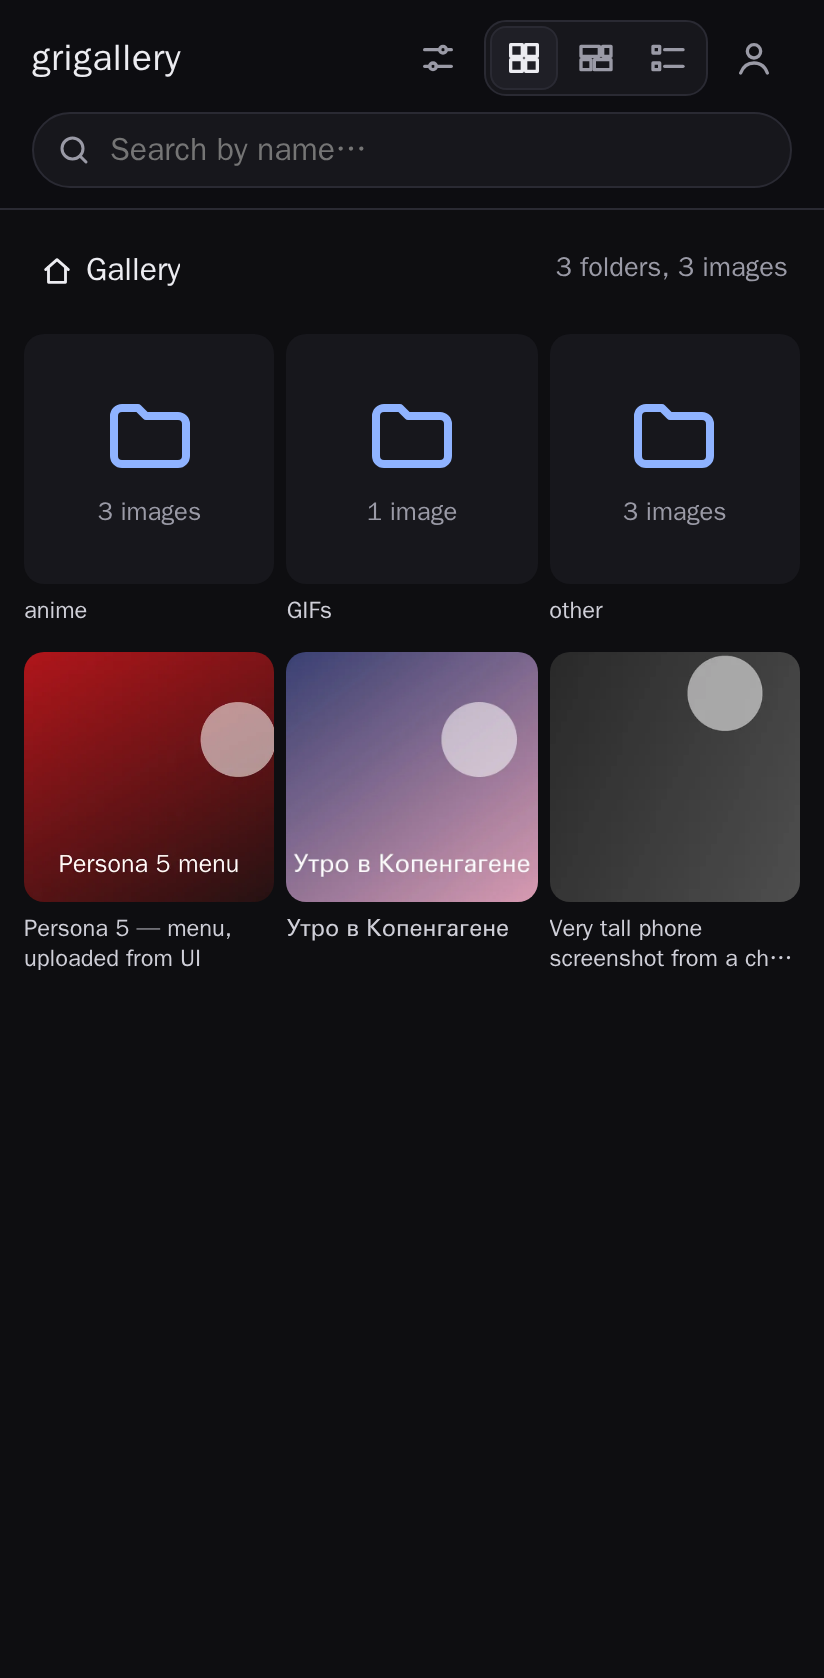
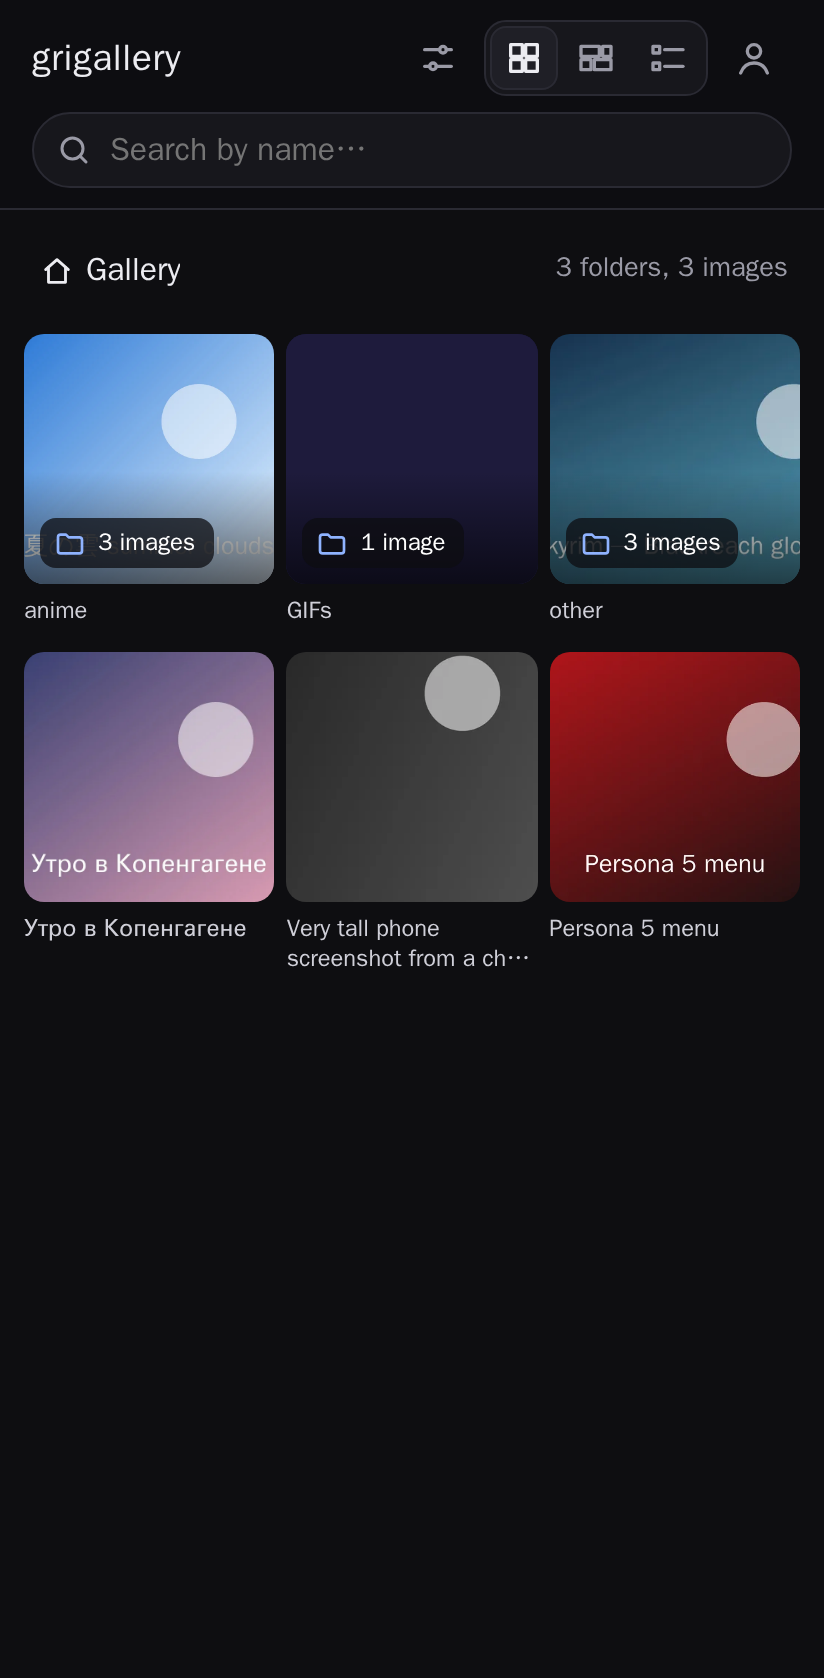
Folder covers; fix drop overlay staying on screen
Covers: a folder shows its newest picture (subfolders included), or a
picture picked in the viewer; if that one is moved out or deleted, the
cover falls back to the newest again. Existing folders get the new
column on start.

Overlay: dropping files onto the upload dialog's drop zone stopped the
event before the page reset its drag counter, so the overlay appeared
once the dialog closed and stayed until reload. The counter now resets
on every drop (capture phase), on dragend and when the dialog opens.

Changed region(s): [[0.0303, 0.1859, 0.9709, 0.5888]]

diff --git a/src/lib/components/GalleryView.svelte b/src/lib/components/GalleryView.svelte
@@ -82,11 +82,19 @@
 {#if g.view === 'grid'}
 	<div class="grid">
 		{#each g.visibleFolders as folder (folder.id)}
+			{@const cover = g.covers.get(folder.id)}
 			<a class="tile" href={g.url(folder.id)}>
-				<div class="frame folder-frame">
-					<Icon name="folder" size={48} />
-					<span class="fcount">{countLabel(folder.id)}</span>
-				</div>
+				{#if cover}
+					<div class="frame folder-cover" style:background-color={cover.color}>
+						<img src={cover.thumb} alt="" loading="lazy" decoding="async" />
+						<span class="fbadge"><Icon name="folder" size={16} />{countLabel(folder.id)}</span>
+					</div>
+				{:else}
+					<div class="frame folder-frame">
+						<Icon name="folder" size={48} />
+						<span class="fcount">{countLabel(folder.id)}</span>
+					</div>
+				{/if}
 				<span class="caption">{folder.name}</span>
 			</a>
 		{/each}
@@ -116,8 +124,15 @@
 	{#if g.visibleFolders.length}
 		<div class="fstrip">
 			{#each g.visibleFolders as folder (folder.id)}
+				{@const cover = g.covers.get(folder.id)}
 				<a class="fcard" href={g.url(folder.id)}>
-					<Icon name="folder" size={22} />
+					{#if cover}
+						<span class="fthumb-sm" style:background-color={cover.color}>
+							<img src={cover.thumb} alt="" loading="lazy" decoding="async" />
+						</span>
+					{:else}
+						<Icon name="folder" size={22} />
+					{/if}
 					<span class="fname">{folder.name}</span>
 					<span class="fmeta">{g.counts.get(folder.id) ?? 0}</span>
 				</a>
@@ -144,8 +159,16 @@
 {:else}
 	<div class="list">
 		{#each g.visibleFolders as folder (folder.id)}
+			{@const cover = g.covers.get(folder.id)}
 			<a class="lrow" href={g.url(folder.id)}>
-				<div class="lthumb fthumb"><Icon name="folder" size={28} /></div>
+				<div class="lthumb fthumb" style:background-color={cover?.color}>
+					{#if cover}
+						<img src={cover.thumb} alt="" loading="lazy" decoding="async" />
+						<span class="fcorner"><Icon name="folder" size={14} /></span>
+					{:else}
+						<Icon name="folder" size={28} />
+					{/if}
+				</div>
 				<div class="lname">{folder.name}</div>
 				<span class="lcell date">{countLabel(folder.id)}</span>
 				<span class="lcell dims"></span>
@@ -205,6 +228,57 @@
 
 	.tile:hover .folder-frame {
 		background: var(--panel-2);
+	}
+
+	/* A folder with a cover: the picture, dimmed at the bottom, with a folder badge. */
+	.folder-cover::after {
+		content: '';
+		position: absolute;
+		inset: 0;
+		background: linear-gradient(transparent 55%, rgba(0, 0, 0, 0.6));
+		pointer-events: none;
+	}
+
+	.fbadge {
+		position: absolute;
+		left: 8px;
+		bottom: 8px;
+		z-index: 1;
+		display: inline-flex;
+		align-items: center;
+		gap: 6px;
+		padding: 4px 9px 4px 7px;
+		border-radius: 8px;
+		background: rgba(14, 14, 17, 0.75);
+		backdrop-filter: blur(6px);
+		-webkit-backdrop-filter: blur(6px);
+		font-size: 0.75rem;
+		color: #fff;
+	}
+
+	.fbadge :global(.icon) {
+		color: var(--accent);
+	}
+
+	.fthumb-sm {
+		width: 30px;
+		height: 30px;
+		overflow: hidden;
+		border-radius: 6px;
+		flex: none;
+	}
+
+	.fcorner {
+		position: absolute;
+		right: 3px;
+		bottom: 3px;
+		display: grid;
+		place-items: center;
+		width: 22px;
+		height: 22px;
+		border-radius: 6px;
+		background: rgba(14, 14, 17, 0.8);
+		color: var(--accent);
 	}
 
 	.fcount {

diff --git a/src/lib/server/db.ts b/src/lib/server/db.ts
@@ -24,6 +24,7 @@ export interface FolderRow {
 	name: string;
 	slug: string;
 	parent_id: string | null;
+	cover_id: string | null;
 	created_at: string;
 }
 
@@ -77,6 +78,10 @@ function migrate(conn: DatabaseSync) {
 	// Folders arrived after the first release: existing pictures stay in the root.
 	if (!columns.includes('folder_id')) conn.exec('ALTER TABLE images ADD COLUMN folder_id TEXT');
 	conn.exec('CREATE INDEX IF NOT EXISTS images_folder ON images (folder_id)');
+	const folderColumns = (conn.prepare('PRAGMA table_info(folders)').all() as { name: string }[]).map(
+		(c) => c.name
+	);
+	if (!folderColumns.includes('cover_id')) conn.exec('ALTER TABLE folders ADD COLUMN cover_id TEXT');
 }
 
 /** Runs fn in a transaction, rolling back if it throws. */
@@ -162,6 +167,7 @@ export function folderToClient(row: FolderRow): GalleryFolder {
 		name: row.name,
 		slug: row.slug,
 		parentId: row.parent_id ?? null,
+		coverId: row.cover_id ?? null,
 		createdAt: row.created_at
 	};
 }
@@ -190,15 +196,20 @@ export function childFolders(parentId: string | null): FolderRow[] {
 export function insertFolder(row: FolderRow) {
 	getDb()
 		.prepare(
-			`INSERT INTO folders (id, name, slug, parent_id, created_at)
-			VALUES (:id, :name, :slug, :parent_id, :created_at)`
+			`INSERT INTO folders (id, name, slug, parent_id, cover_id, created_at)
+			VALUES (:id, :name, :slug, :parent_id, :cover_id, :created_at)`
 		)
 		.run({ ...row });
 }
 
-export function updateFolder(id: string, fields: Pick<FolderRow, 'name' | 'slug' | 'parent_id'>) {
+export function updateFolder(
+	id: string,
+	fields: Pick<FolderRow, 'name' | 'slug' | 'parent_id' | 'cover_id'>
+) {
 	getDb()
-		.prepare('UPDATE folders SET name = :name, slug = :slug, parent_id = :parent_id WHERE id = :id')
+		.prepare(
+			'UPDATE folders SET name = :name, slug = :slug, parent_id = :parent_id, cover_id = :cover_id WHERE id = :id'
+		)
 		.run({ ...fields, id });
 }
 

diff --git a/src/routes/api/folders/[id]/+server.ts b/src/routes/api/folders/[id]/+server.ts
@@ -1,6 +1,6 @@
 import { error } from '@sveltejs/kit';
 import { requireAdmin } from '#lib/server/auth.ts';
-import { deleteFolder, folderToClient, getFolder, updateFolder } from '#lib/server/db.ts';
+import { deleteFolder, folderToClient, getFolder, getImage, updateFolder } from '#lib/server/db.ts';
 import {
 	assertFreeSlug,
 	collisionsOnDelete,
@@ -10,7 +10,10 @@ import {
 } from '#lib/server/folders.ts';
 import type { RequestHandler } from './$types';
 
-/** Rename and/or move: { name?, parentId? } (parentId null = root). */
+/**
+ * Any of: { name, parentId, coverId }. parentId null = root;
+ * coverId null = back to the newest picture inside.
+ */
 export const PATCH: RequestHandler = async ({ params, request, locals }) => {
 	requireAdmin(locals);
 	const folder = getFolder(params.id);
@@ -27,8 +30,23 @@ export const PATCH: RequestHandler = async ({ params, request, locals }) => {
 	}
 	assertFreeSlug(parentId, slug, folder.id);
 
-	updateFolder(folder.id, { name, slug, parent_id: parentId });
-	return Response.json(folderToClient({ ...folder, name, slug, parent_id: parentId }));
+	let coverId = folder.cover_id;
+	if ('coverId' in body) {
+		if (body.coverId === null) {
+			coverId = null;
+		} else {
+			const image = typeof body.coverId === 'string' ? getImage(body.coverId) : undefined;
+			const imageFolder = image?.folder_id ? (getFolder(image.folder_id) ?? null) : null;
+			if (!image || !isInside(imageFolder, folder.id)) {
+				error(400, 'The cover has to be a picture from this folder');
+			}
+			coverId = image.id;
+		}
+	}
+
+	const fields = { name, slug, parent_id: parentId, cover_id: coverId };
+	updateFolder(folder.id, fields);
+	return Response.json(folderToClient({ ...folder, ...fields }));
 };
 
 /** Deletes the folder; what was inside moves up to its parent. */

diff --git a/src/routes/[...path]/+page.svelte b/src/routes/[...path]/+page.svelte
@@ -138,6 +138,20 @@
 
 	// ---------- folders ----------
 
+	/** Makes a picture the open folder's cover, or goes back to automatic if it already is. */
+	async function toggleCover(imageId: string) {
+		const folder = g.current;
+		if (!folder) return;
+		const coverId = folder.coverId === imageId ? null : imageId;
+		try {
+			const updated = await api<GalleryFolder>('PATCH', `/api/folders/${folder.id}`, { coverId });
+			g.upsertFolder(updated);
+			showToast(coverId ? `Cover of “${folder.name}”` : 'Cover is the newest picture again');
+		} catch (err) {
+			showToast((err as Error).message);
+		}
+	}
+
 	function newFolder() {
 		prompt = {
 			title: 'New folder',
@@ -236,6 +250,17 @@
 		if (g.user && hasFiles(e)) e.preventDefault();
 	}
 
+	// Reset on every drop, wherever it lands: the upload dialog's drop zone
+	// stops the event from reaching ondrop below, which used to leave the
+	// overlay stuck after the dialog closed.
+	function endDrag() {
+		dragging = 0;
+	}
+
+	$effect(() => {
+		if (uploader.open) untrack(endDrag);
+	});
+
 	function ondrop(e: DragEvent) {
 		if (!g.user || !hasFiles(e)) return;
 		e.preventDefault();
@@ -262,7 +287,16 @@
 	const allPicked = $derived(g.visible.length > 0 && g.visible.every((it) => g.selected.has(it.id)));
 </script>
 
-<svelte:window {ondragenter} {ondragleave} {ondragover} {ondrop} {onpaste} {onkeydown} />
+<svelte:window
+	{ondragenter}
+	{ondragleave}
+	{ondragover}
+	{ondrop}
+	ondropcapture={endDrag}
+	ondragend={endDrag}
+	{onpaste}
+	{onkeydown}
+/>
 
 <svelte:head>
 	{#if g.current}<title>{g.current.name} · grigallery</title>{/if}
@@ -327,6 +361,7 @@
 		onnavigate={showImage}
 		onmove={(id) => moveImages([id])}
 		ondelete={(id) => deleteImages([id])}
+		oncover={toggleCover}
 	/>
 {/if}
 

diff --git a/src/lib/components/Lightbox.svelte b/src/lib/components/Lightbox.svelte
@@ -13,7 +13,8 @@
 		onclose,
 		onnavigate,
 		onmove,
-		ondelete
+		ondelete,
+		oncover
 	}: {
 		g: Gallery;
 		id: string;
@@ -21,6 +22,7 @@
 		onnavigate: (id: string) => unknown;
 		onmove: (id: string) => unknown;
 		ondelete: (id: string) => unknown;
+		oncover: (id: string) => unknown;
 	} = $props();
 
 	let root = $state<HTMLDivElement>();
@@ -36,6 +38,11 @@
 	const item = $derived<GalleryImage | undefined>(g.visible[index]);
 	const prevItem = $derived(index > 0 ? g.visible[index - 1] : undefined);
 	const nextItem = $derived(index >= 0 ? g.visible[index + 1] : undefined);
+	// Any picture inside the open folder (subfolders too) can become its cover.
+	const canCover = $derived(
+		!!g.user && !!g.current && !!item?.folderId && !!g.subtree?.has(item.folderId)
+	);
+	const isCover = $derived(!!item && g.current?.coverId === item.id);
 
 	// Show the thumbnail at once, swap in the sharp original when it has loaded.
 	$effect(() => {
@@ -199,6 +206,18 @@
 					<button class="icon-btn" title="Move to folder" aria-label="Move to folder" onclick={() => item && onmove(item.id)}>
 						<Icon name="move" />
 					</button>
+					{#if canCover}
+						<button
+							class="icon-btn"
+							class:active={isCover}
+							title={isCover ? 'Cover of this folder (click to use the newest picture)' : 'Make folder cover'}
+							aria-label={isCover ? 'Stop using as folder cover' : 'Make folder cover'}
+							aria-pressed={isCover}
+							onclick={() => item && oncover(item.id)}
+						>
+							<Icon name="cover" />
+						</button>
+					{/if}
 					<button class="icon-btn" title="Delete" aria-label="Delete" onclick={remove}>
 						<Icon name="trash" />
 					</button>

diff --git a/src/lib/gallery.svelte.ts b/src/lib/gallery.svelte.ts
@@ -103,6 +103,28 @@ export class Gallery {
 		return counts;
 	});
 
+	/**
+	 * Cover picture of each folder: the one chosen for it if it is still
+	 * somewhere inside, otherwise the newest picture in it or its subfolders.
+	 */
+	covers = $derived.by(() => {
+		const covers = new Map<string, GalleryImage>();
+		for (const it of this.items) {
+			let id = it.folderId;
+			while (id) {
+				const best = covers.get(id);
+				if (!best || it.uploadedAt > best.uploadedAt) covers.set(id, it);
+				id = this.byId.get(id)?.parentId ?? null;
+			}
+		}
+		const images = new Map(this.items.map((it) => [it.id, it]));
+		for (const f of this.folders) {
+			const chosen = f.coverId ? images.get(f.coverId) : undefined;
+			if (chosen?.folderId && this.descendants(f.id).has(chosen.folderId)) covers.set(f.id, chosen);
+		}
+		return covers;
+	});
+
 	/** Every folder as a flat, indented list for pickers, root first. */
 	options = $derived.by(() => {
 		const out: FolderOption[] = [{ id: null, label: 'Gallery', depth: 0 }];

diff --git a/src/lib/components/Icon.svelte b/src/lib/components/Icon.svelte
@@ -40,7 +40,8 @@
 		],
 		select: ['M4 4h16v16H4z', 'M8 12l3 3 5-6'],
 		check: ['M5 12.5l4.5 4.5L19 7.5'],
-		home: ['M4 11l8-7 8 7', 'M6 9.5V20h12V9.5']
+		home: ['M4 11l8-7 8 7', 'M6 9.5V20h12V9.5'],
+		cover: ['M4 5h16v14H4z', 'M4 16l4.5-4.5 4 4 3-3L20 17', 'M15.5 8a1.5 1.5 0 1 1 0 3a1.5 1.5 0 1 1 0-3z']
 	} as const;
 
 	export type IconName = keyof typeof ICONS;

diff --git a/src/lib/types.ts b/src/lib/types.ts
@@ -23,6 +23,8 @@ export interface GalleryFolder {
 	slug: string;
 	/** null means the folder is in the root. */
 	parentId: string | null;
+	/** Picture chosen as the cover; null means the newest picture inside. */
+	coverId: string | null;
 	createdAt: string;
 }
 

diff --git a/src/routes/api/folders/+server.ts b/src/routes/api/folders/+server.ts
@@ -18,6 +18,7 @@ export const POST: RequestHandler = async ({ request, locals }) => {
 		name,
 		slug,
 		parent_id: parent?.id ?? null,
+		cover_id: null,
 		created_at: new Date().toISOString()
 	};
 	insertFolder(row);

diff --git a/README.md b/README.md
@@ -14,7 +14,8 @@ context, so names are always shown and can be edited.
 
 - **Folders:** the gallery works like a file system. The root holds folders and loose pictures,
   folders can be nested, and each has its own address (`/anime/frieren`). Folders can be created,
-  renamed, moved and deleted; deleting one moves its contents up a level.
+  renamed, moved and deleted; deleting one moves its contents up a level. A folder's cover is
+  its newest picture, or any picture inside picked from the viewer.
 - **Sorting pictures into folders:** move one from the viewer, or select several and move or delete them together.
 - **Views:** grid, justified rows and list. The choice is remembered and rendered by the server.
 - **Viewer:** full screen, arrows, keyboard (← → Esc F), swipes on phones, tap to hide the controls.
